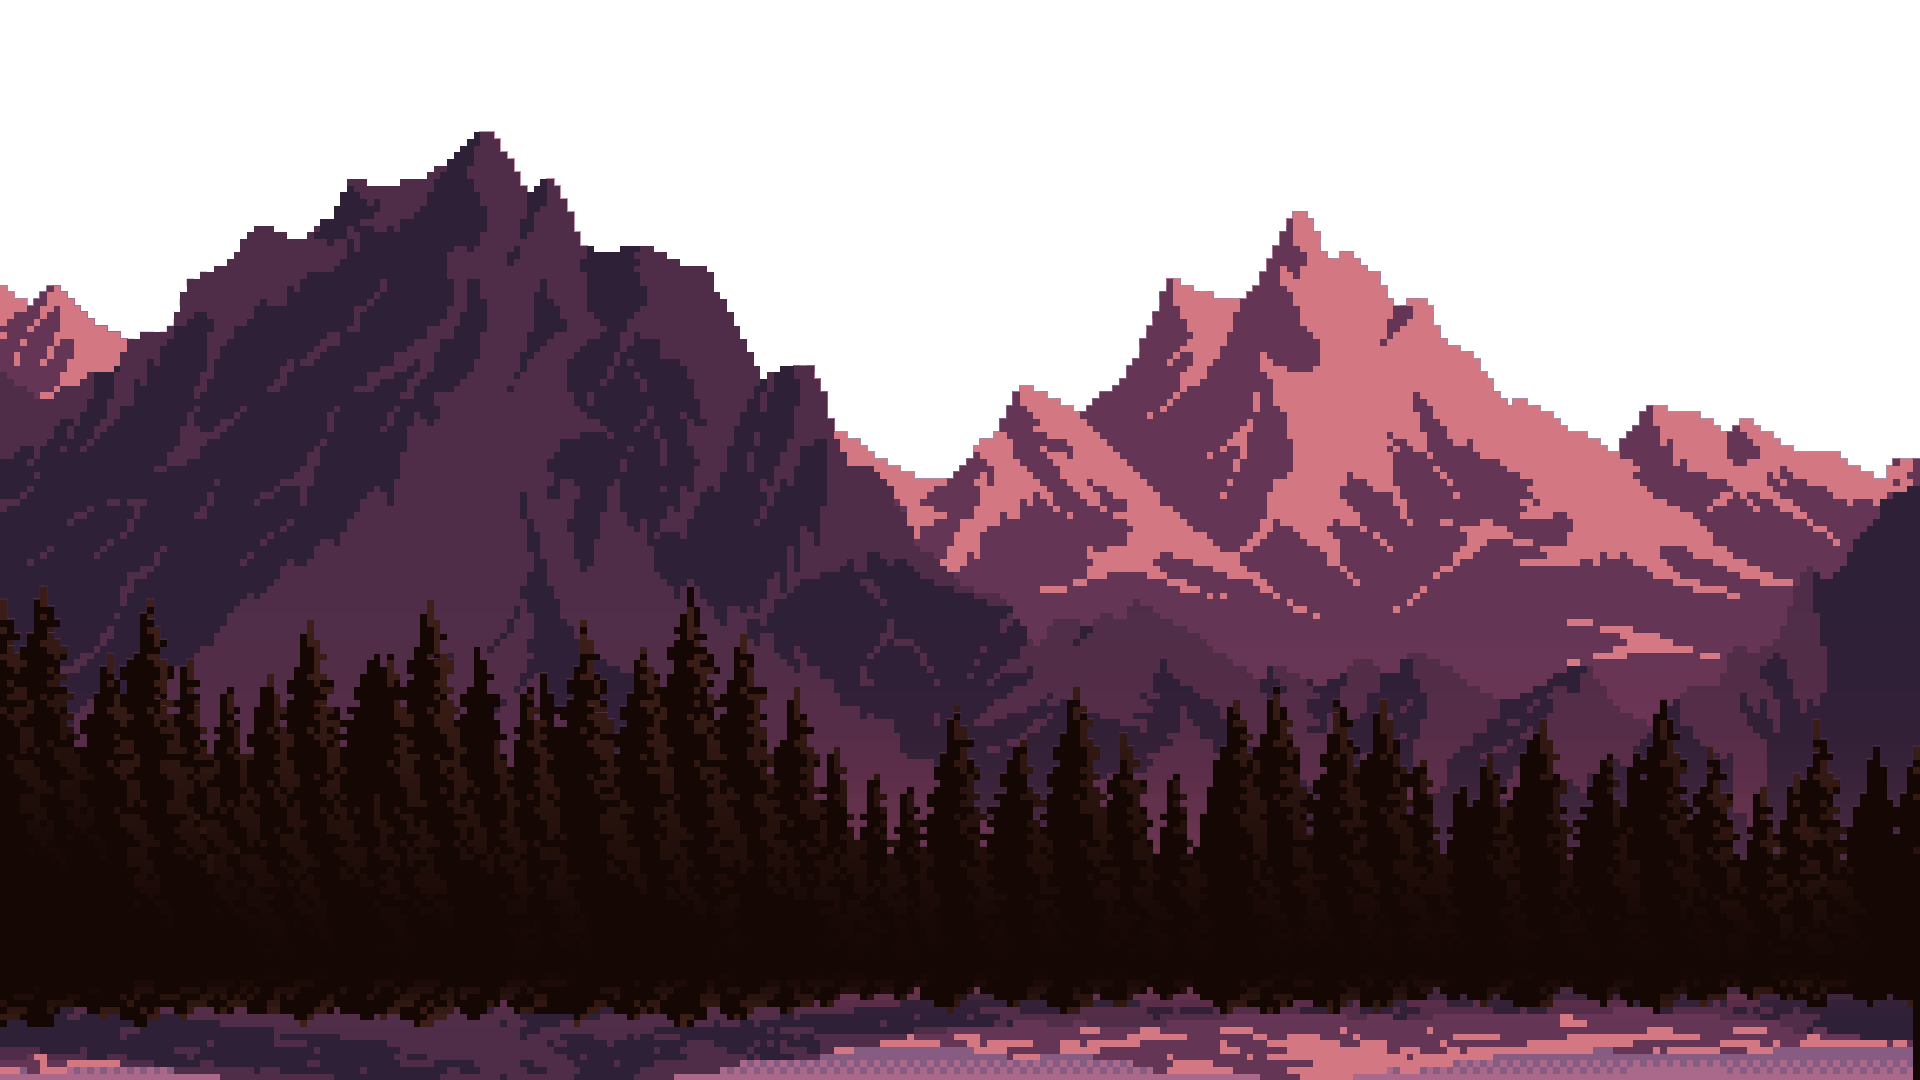
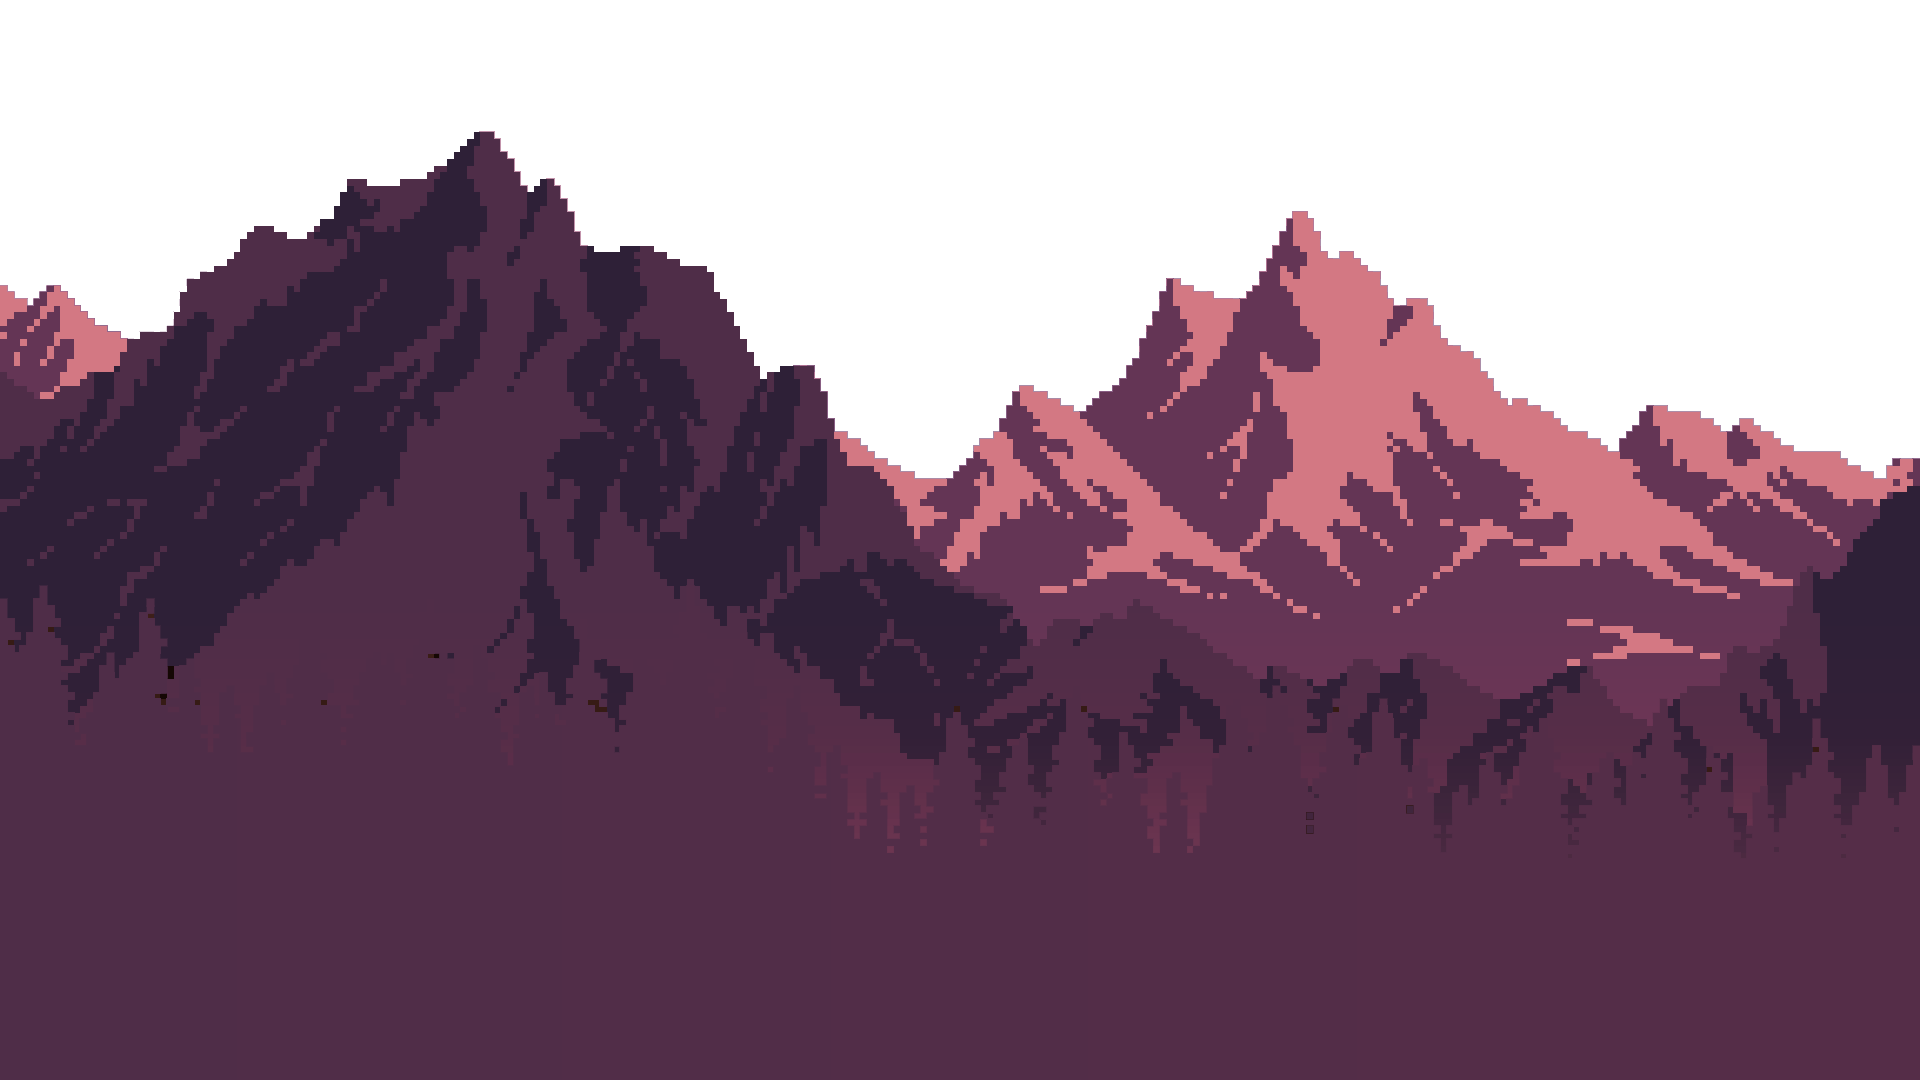
finished home section

Changed region(s): [[0.0, 0.55, 1.0, 1.0]]

diff --git a/assets/js/script.js b/assets/js/script.js
@@ -10,14 +10,14 @@ let mountain_back = document.getElementById("mountain_back");
 let mountain_moon = document.getElementById("mountain_moon");
 let mountain_middle = document.getElementById("mountain_middle");
 let mountain_front = document.getElementById("mountain_front");
-let text = document.getElementById("document");
+let text = document.getElementById("text");
 
 window.addEventListener('scroll', function() {
     var value = window.scrollY;
 
     mountain_back.style.top = value * 0.5 + 'px';
-    mountain_moon.left = -value * 0.5 + 'px';
-    mountain_middle.top = -value * 0.15 + 'px';
-    mountain_front.top = value * 0.15 + 'px';
+    mountain_moon.style.left = -value * 0.9 + 'px';
+    mountain_middle.style.top = -value * 0.15 + 'px';
+    mountain_front.style.top = value * 0.15 + 'px';
     text.style.top = value * 1 + 'px';
 })

diff --git a/assets/css/style.css b/assets/css/style.css
@@ -209,6 +209,9 @@ section {
     font-size: 10em;
     z-index: 1;
 }
+#mountain_front {
+    z-index: 2;
+}
 
 .aboutme {
     display: flex;
